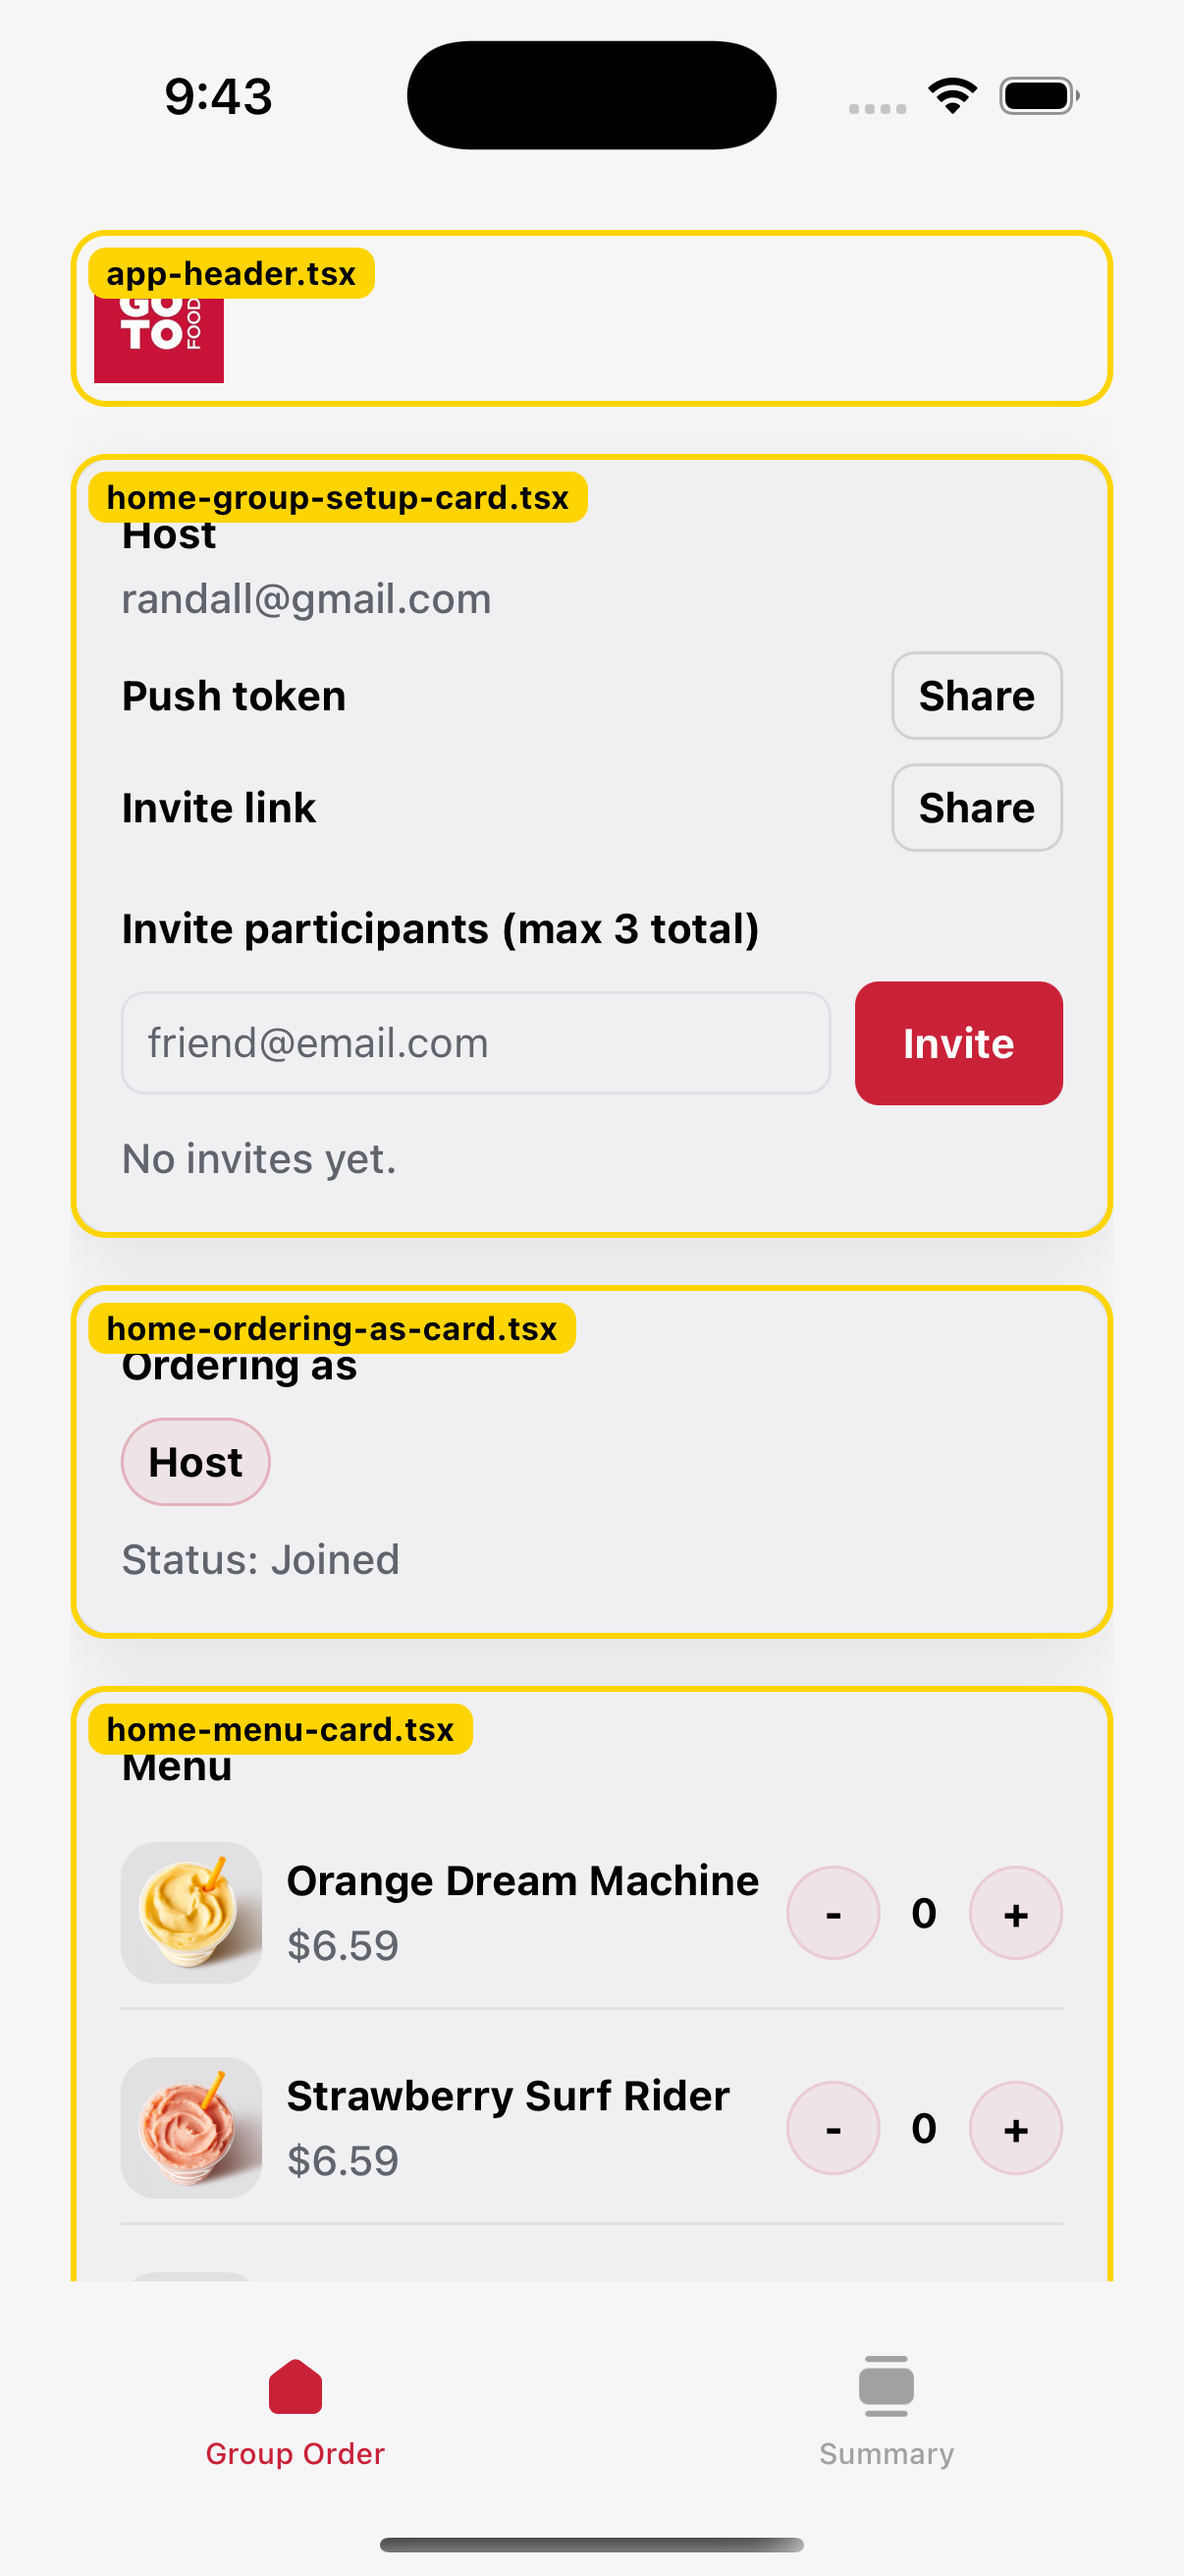
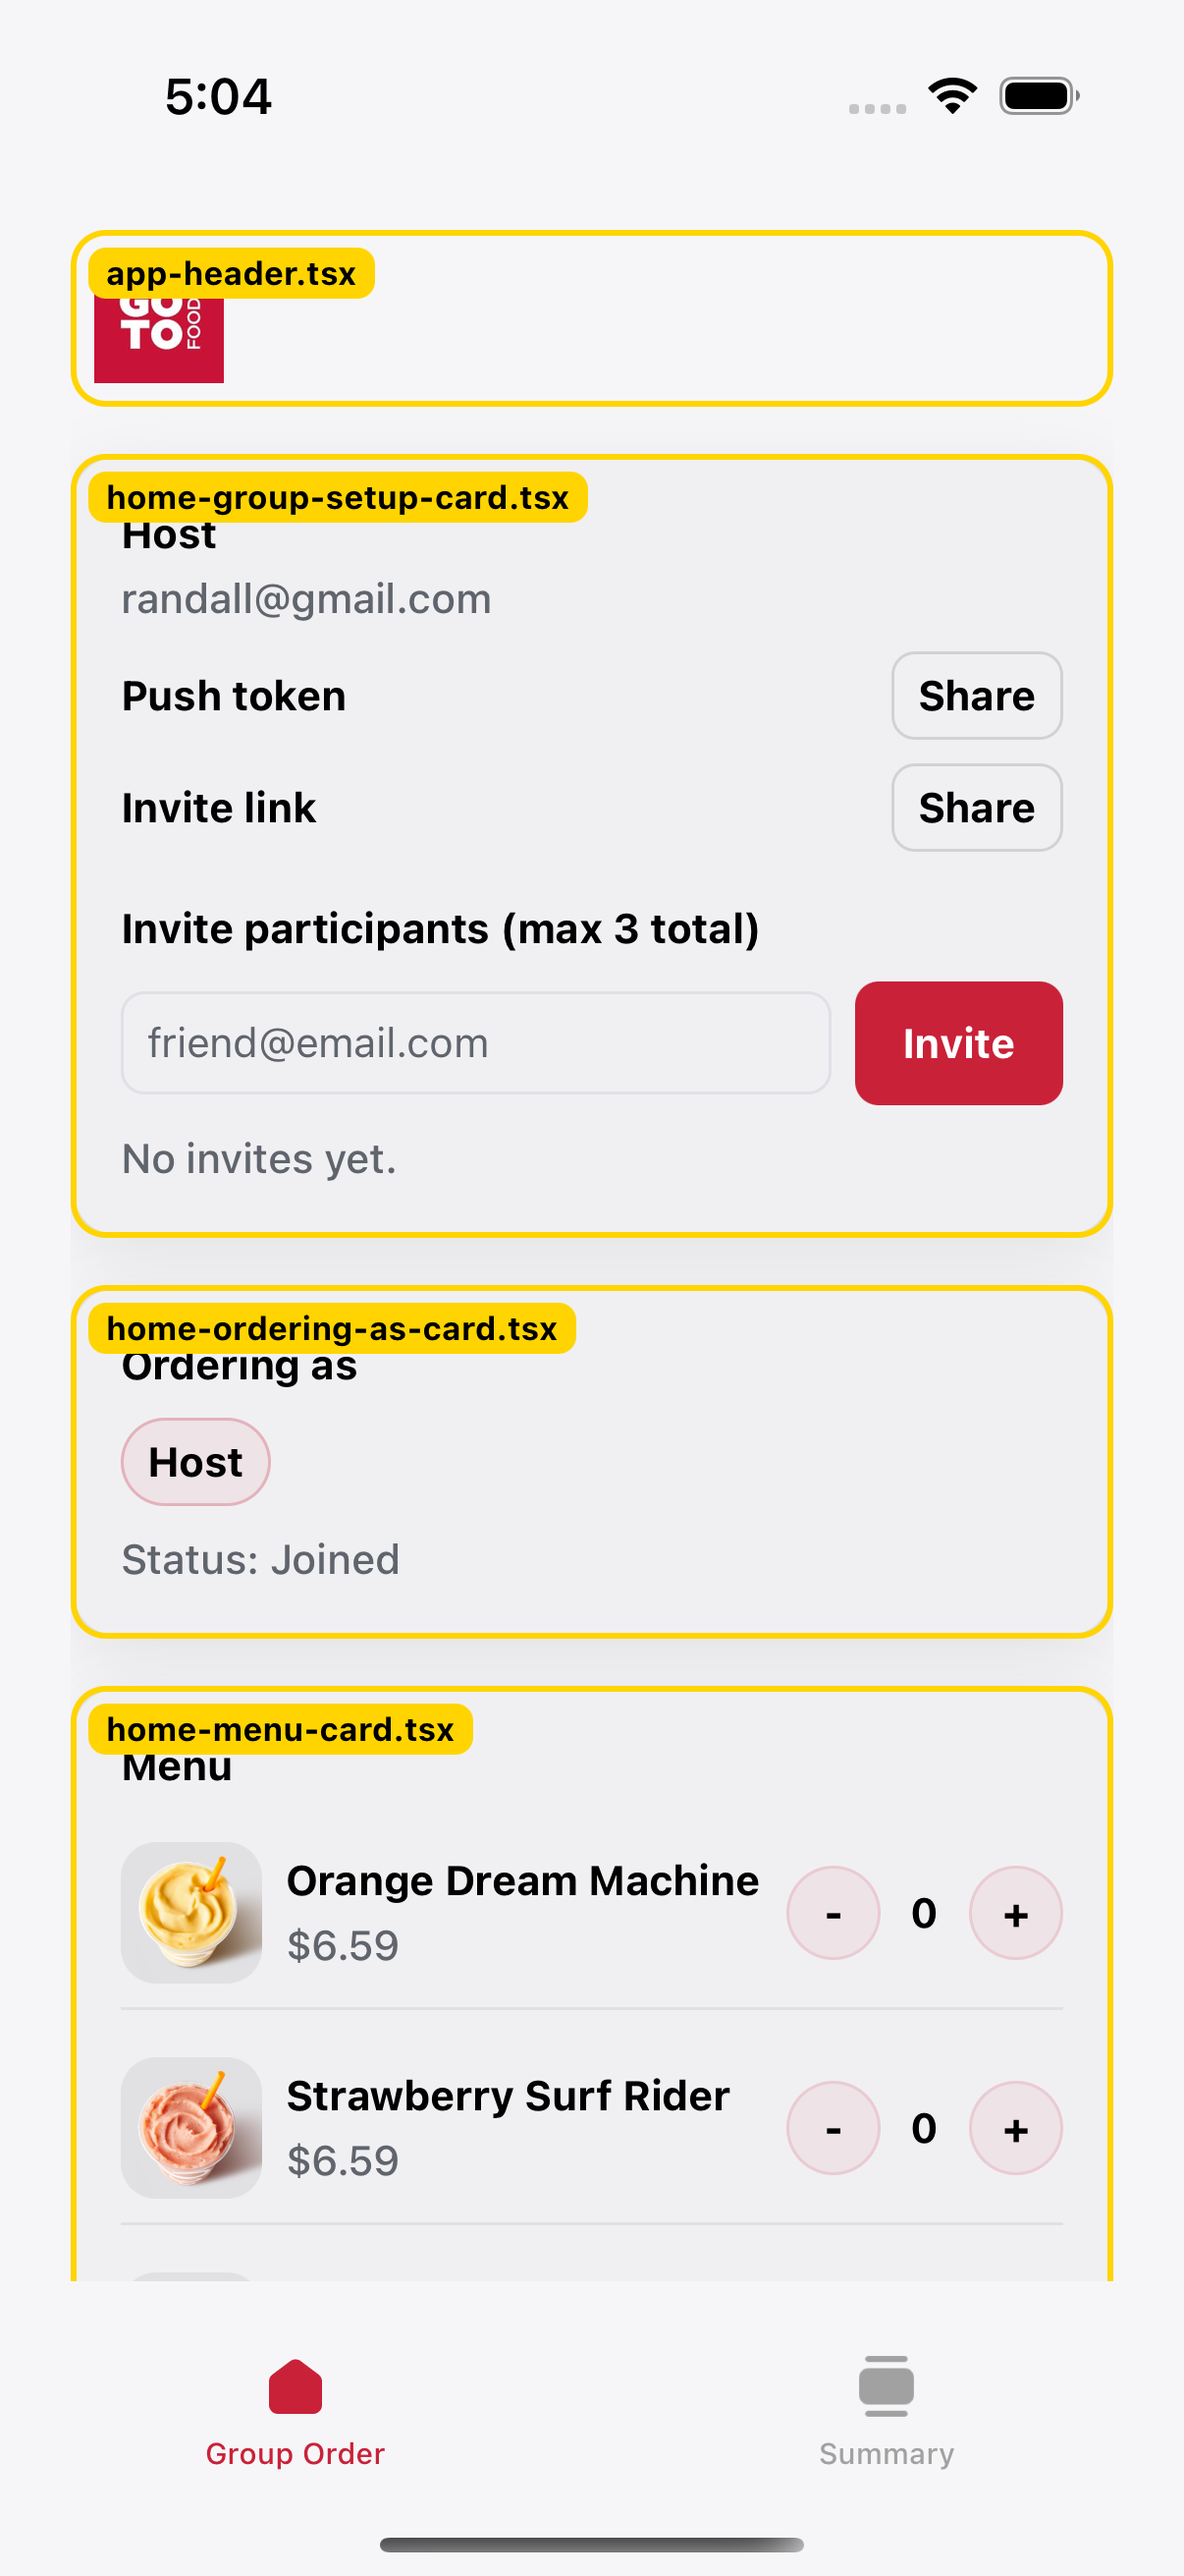
Update README

Changed region(s): [[0.3375, 0.0, 0.675, 0.0618], [0.1534, 0.0309, 0.2454, 0.0618]]

diff --git a/README.md b/README.md
@@ -40,17 +40,13 @@ GoDash is a lightweight DoorDash-style group ordering demo built with Expo + Rea
 
 ## Screenshots
 
-| Start order                                               | Invites                                               |
-| --------------------------------------------------------- | ----------------------------------------------------- |
-| <img src="./assets/github/start-order.png" width="320" /> | <img src="./assets/github/invites.png" width="320" /> |
+| Start order                                               | Menu + cart                                        |
+| --------------------------------------------------------- | -------------------------------------------------- |
+| <img src="./assets/github/start-order.png" width="320" /> | <img src="./assets/github/cart.png" width="320" /> |
 
-| Menu + cart                                        | Order summary                                               |
-| -------------------------------------------------- | ----------------------------------------------------------- |
-| <img src="./assets/github/cart.png" width="320" /> | <img src="./assets/github/order-summary.png" width="320" /> |
-
-| Debug outlines (component labels)                   |     |
-| --------------------------------------------------- | --- |
-| <img src="./assets/github/debug.png" width="320" /> |     |
+| Order summary                                               | Debug outlines (component labels)                   |
+| ----------------------------------------------------------- | --------------------------------------------------- |
+| <img src="./assets/github/order-summary.png" width="320" /> | <img src="./assets/github/debug.png" width="320" /> |
 
 ## Getting started
 
